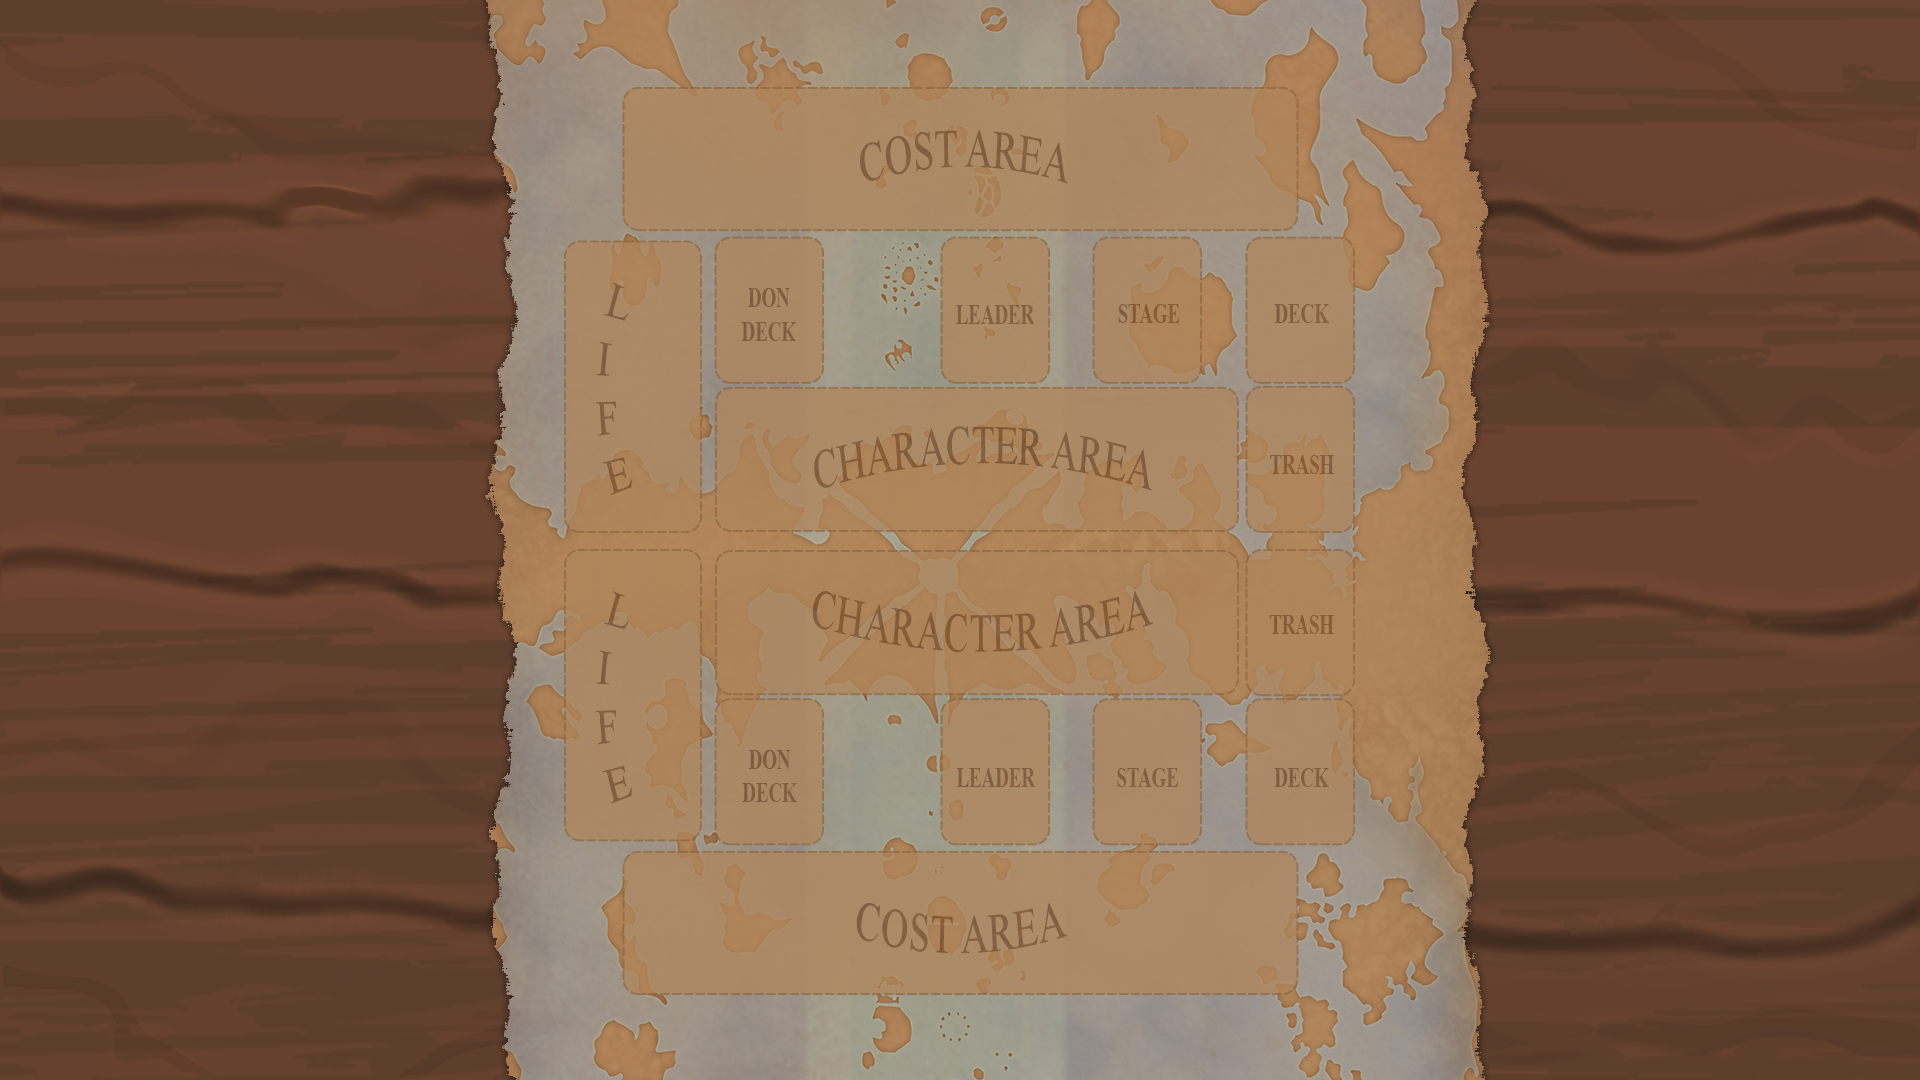
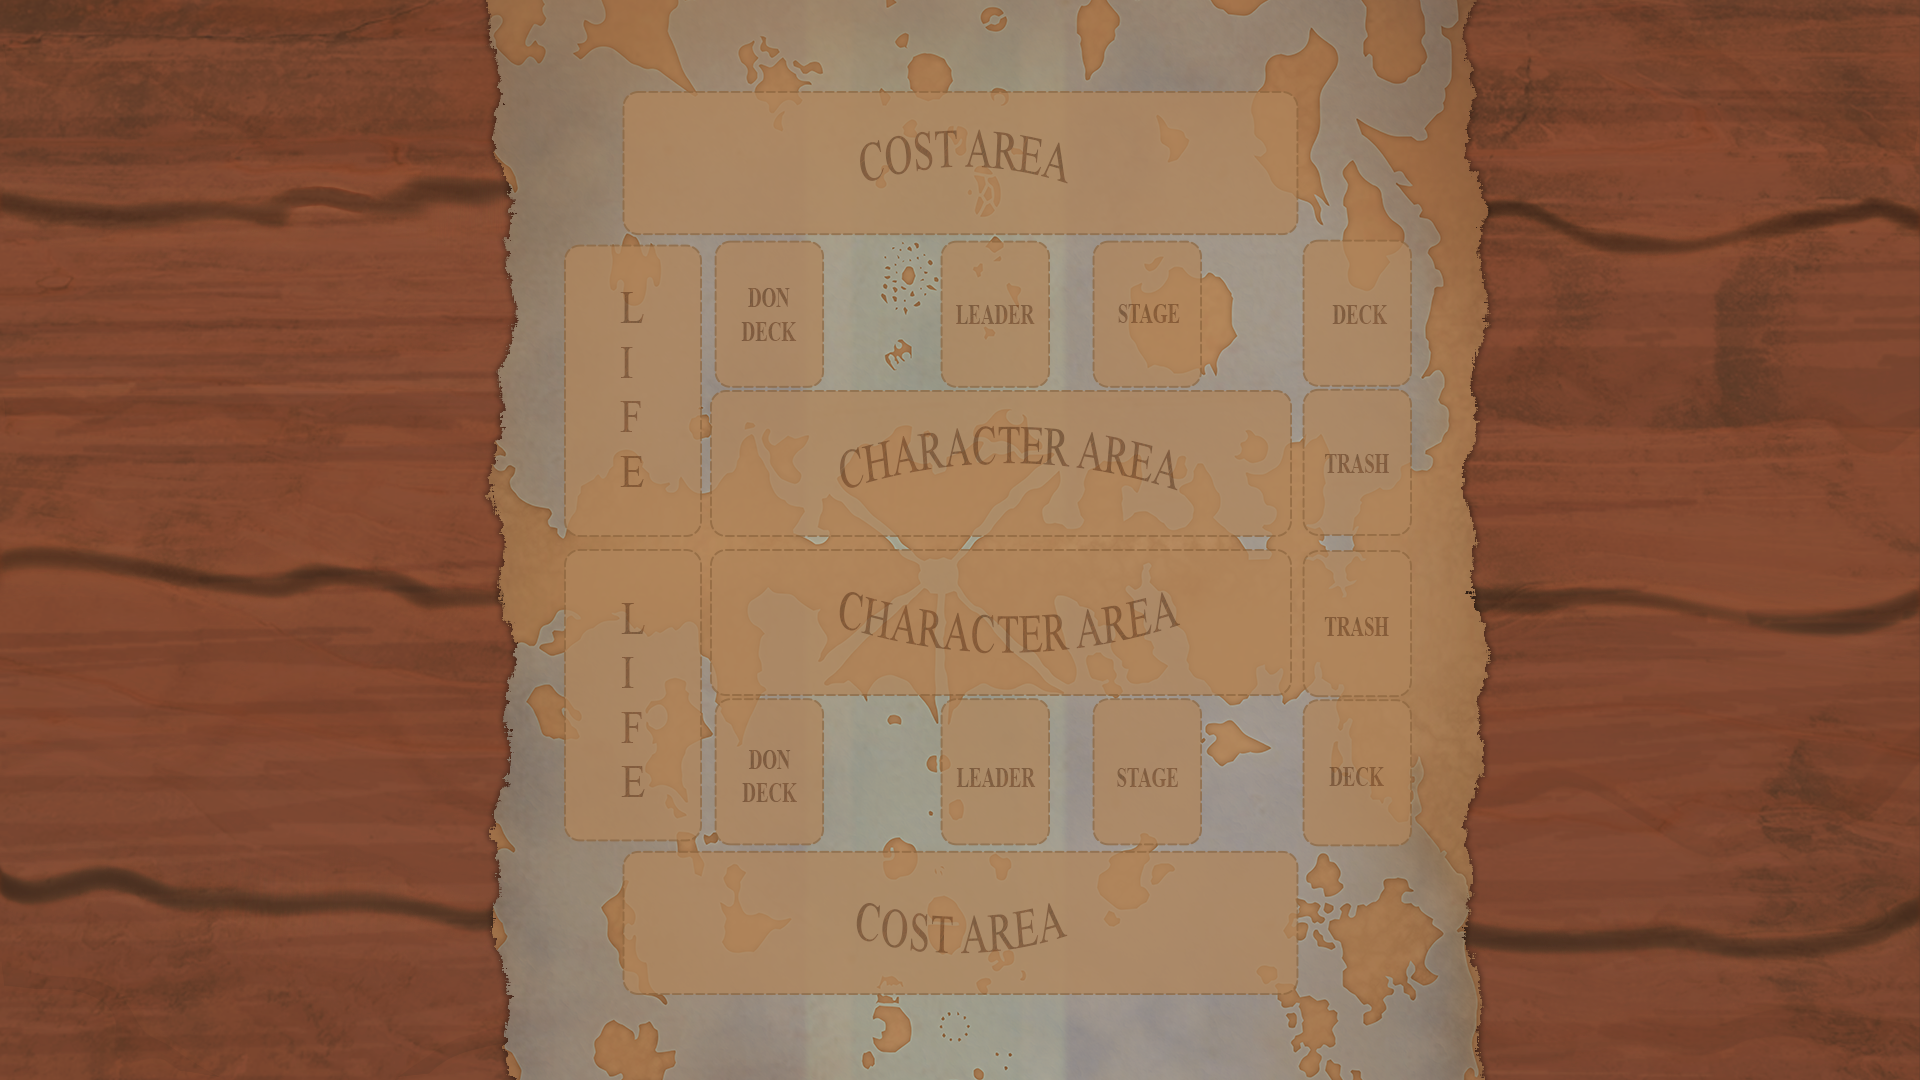
FEAT: Adjustments to container areas to fit new board.

diff --git a/client/src/handlers/game_handler.ts b/client/src/handlers/game_handler.ts
@@ -54,11 +54,11 @@ export default class GameHandler {
     this.playerHandArea = this.scene.add.container(515, 996).setInteractive();
     this.opponentHandArea = this.scene.add.container(515, -123);
 
-    this.playerDeckArea = this.scene.add.container(1253, 704);
-    this.opponentDeckArea = this.scene.add.container(1253, 242);
+    this.playerDeckArea = this.scene.add.container(1309, 706);
+    this.opponentDeckArea = this.scene.add.container(1309, 244);
 
-    this.playerTrashArea = this.scene.add.container(1254, 555);
-    this.opponentTrashArea = this.scene.add.container(1254, 391);
+    this.playerTrashArea = this.scene.add.container(1309, 556);
+    this.opponentTrashArea = this.scene.add.container(1309, 392);
 
     this.playerLeaderArea = this.scene.add.container(947, 704);
     this.opponentLeaderArea = this.scene.add.container(947, 243);
@@ -75,11 +75,11 @@ export default class GameHandler {
     // This is the location of the character area in a rectangle
     this.playableCharacterArea = this.scene.add.graphics();
     this.playableCharacterArea.fillStyle(0x00ff00, 0.3);
-    this.playableCharacterArea.fillRoundedRect(717, 552, 519, 141, 18);
+    this.playableCharacterArea.fillRoundedRect(717, 552, 570, 141, 18);
     this.playableCharacterArea.setVisible(false);
 
     // Used to do hit detection
-    this.playableCharacterAreaHitBox = this.scene.add.rectangle(717, 552, 519, 141, 0x000000);
+    this.playableCharacterAreaHitBox = this.scene.add.rectangle(717, 552, 570, 141, 0x000000);
     this.playableCharacterAreaHitBox.setOrigin(0, 0);
     this.playableCharacterAreaHitBox.setVisible(false);
 
@@ -286,7 +286,7 @@ export default class GameHandler {
         card.setInteractive();
         card.initInteractables(false);
         card.indexInContainer = i;
-        card.setPosition(card.calculatePositionInHand(), 0);
+        card.setPosition(card.calculatePositionInCharacterArea(), 0);
         this.opponentCharacterArea.add(card);
         this.opponent.characterArea.pushBack(card);
         if (data.cards.W[i].isResting) {

diff --git a/client/src/game/player.ts b/client/src/game/player.ts
@@ -179,7 +179,7 @@ export default class Player {
       this.characterArea.pushBack(card);
       scene.gameHandler.playerCharacterArea.add(card);
       card.indexInContainer = this.characterArea.size() - 1;
-      card.setPosition(card.calculatePositionInHand(), 0);
+      card.setPosition(card.calculatePositionInCharacterArea(), 0);
       card.objectId = cards[i].objectId;
       card.summoningSickness = cards[i].summoningSickness;
       card.isInPlay = true;

diff --git a/client/src/game/card.ts b/client/src/game/card.ts
@@ -85,6 +85,10 @@ export default class Card extends Phaser.GameObjects.Image {
     return this.indexInContainer * 100;
   }
 
+  calculatePositionInCharacterArea() {
+    return this.indexInContainer * 120;
+  }
+
   isDraggable() {
     // TODO: Finish all conditionals
     if (this.isResting) {
